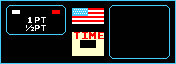
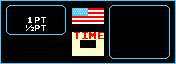
enhanced end of round logic & 1P/2P mode

Changed region(s): [[0.2841, 0.1562, 0.3409, 0.2188], [0.0568, 0.1562, 0.1136, 0.2188]]

diff --git a/assets/convert_sprites.py b/assets/convert_sprites.py
@@ -802,9 +802,9 @@ bitplanelib.palette_image2raw("panel.png","{}/panel.bin".format(sprites_dir),
 
 #process_backgrounds(palette)
 
-process_tiles("sprites.json",os.path.join(source_dir,"other_bobs.s"))
+#process_tiles("sprites.json",os.path.join(source_dir,"other_bobs.s"))
 
-process_player_tiles()
+#process_player_tiles()
 
 #####process_girls()
 

diff --git a/README.md b/README.md
@@ -31,9 +31,8 @@ rip evade level 4 rock
 
 bugs
 
-- win/lose player animation not working properly
-- todo: win: girl gets closer to player
-- todo: win: big head animation when girl is close...
+- scored point colors vary from white to yellow... probably
+  some erase girl/referee/player that fails...
 - full point/end of round should wait or music mutes it
 - game start: doesn't see previous joy button, then check - player2 start not working
 - break planks sometimes breaks planks while away
@@ -44,14 +43,11 @@ bugs
 - some blows don't connect (both players same direction): check debug pic
 - when hit, player falls too fast
 - final timer countdown: should wait a bit after countdown
-- 2 player mode - 1ST - => 1ST   1ST non-cpu player with
-  number of rounds won+1
 - win a round: timer not reset
 - count how many rounds have been won... next level...
 - win a round by KO: countdown doesn't work, points not reset
 - clarify what to set to 0: start of round, start of fight, start of level
 - check/fix consistency in options
-- scored point colors vary from white to yellow...
 - refactoring: add init for states instead of
   testing in update functions...
   create first_draw functions too
